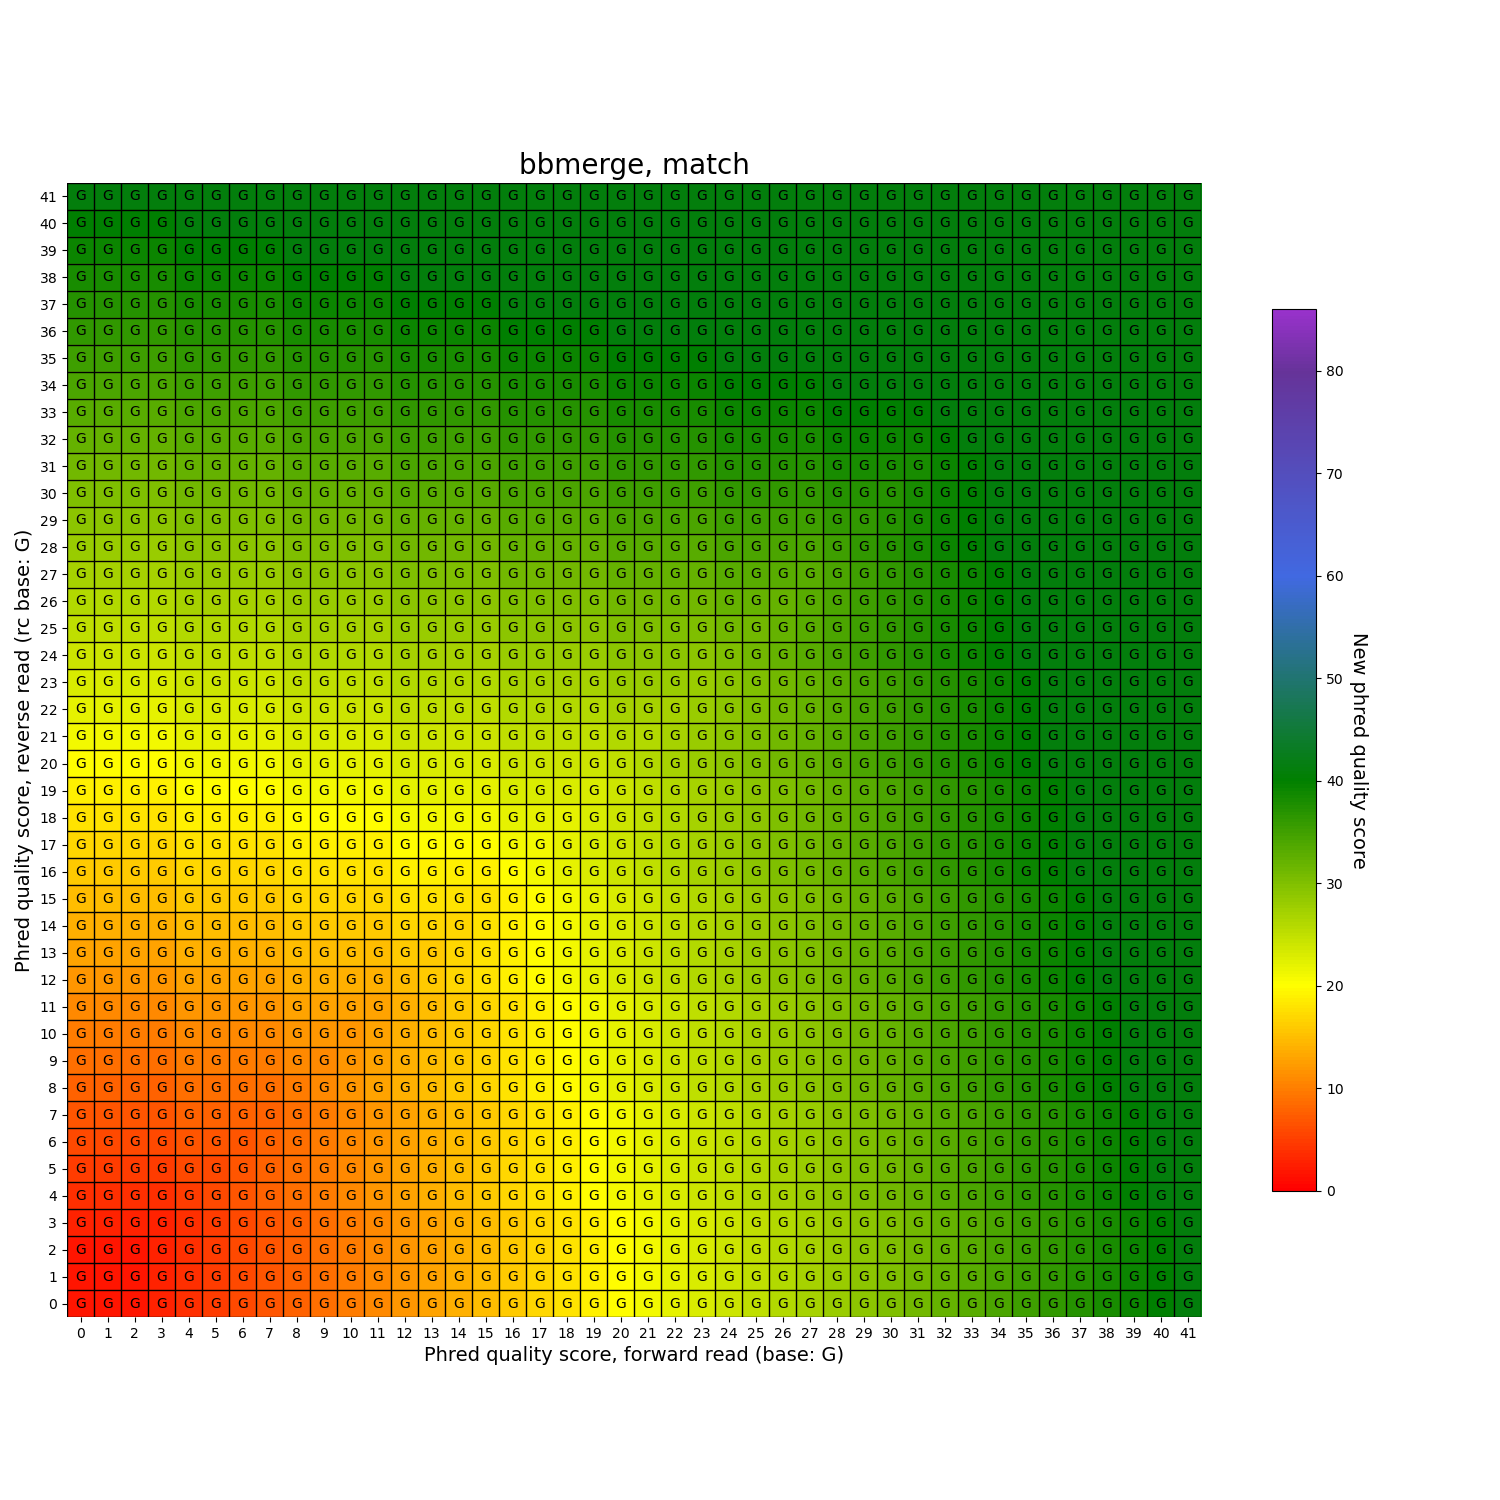
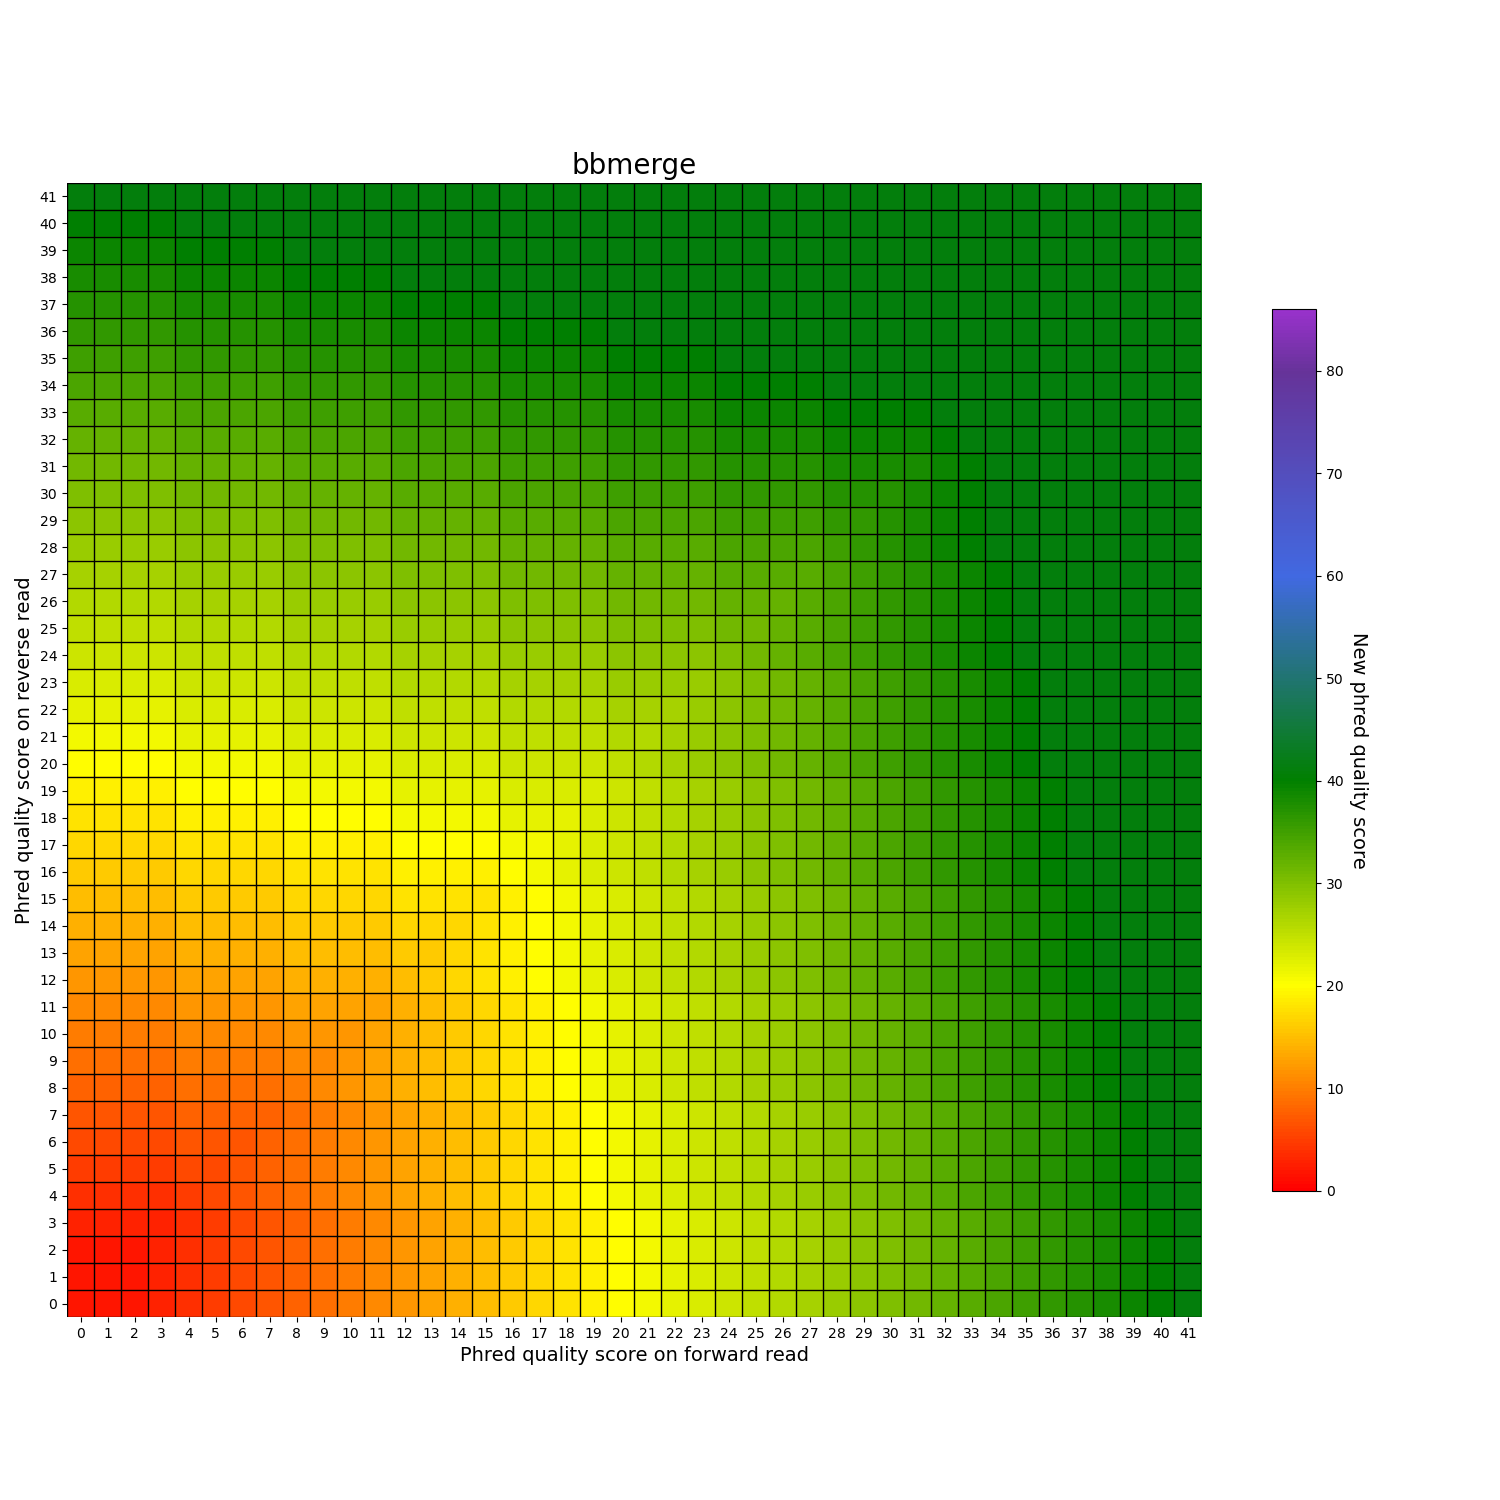
modified plots for merge phred

diff --git a/merge_phred/plot.py b/merge_phred/plot.py
@@ -156,9 +156,9 @@ def create_plots(df_type, program, match_type, max_new_qs, outdir):
 
     # Get matrices of the new phred value and the new nucleotide
     df_new_qs = df_type.pivot(index='qs2', columns='qs1', values='new_qs') \
-                        .sort_index(ascending=False)
+                       .sort_index(ascending=False)
     df_new_nt = df_type.pivot(index='qs2', columns='qs1', values='new_nt') \
-                        .sort_index(ascending=False)
+                       .sort_index(ascending=False)
 
     # Create own colormap for heatmap
     cvals  = [0, 20, 40, 60, 80, max_new_qs]
@@ -182,20 +182,26 @@ def create_plots(df_type, program, match_type, max_new_qs, outdir):
         )
 
     # Add titel and axes labels
-    nt1 = list(df_type["nt1"])[0]
-    nt2 = list(df_type["nt2"])[0]
-    ax.set_title(f"{program}, {match_type}", fontsize=20)
-    ax.set_xlabel(f"Phred quality score, forward read (base: {nt1})", fontsize=14)
-    ax.set_ylabel(f"Phred quality score, reverse read (rc base: {nt2})",
-                fontsize=14)
+    ax.set_title(f"{program}", fontsize=20)
+    if match_type == "match":
+        ax.set_xlabel(f"Phred quality score on forward read", fontsize=14)
+        ax.set_ylabel(f"Phred quality score on reverse read", fontsize=14)
+    else:
+        nt1 = list(df_type["nt1"])[0]
+        nt2 = list(df_type["nt2"])[0]
+        ax.set_xlabel(f"Phred quality score on forward read (nucleotide: {nt1})", 
+                      fontsize=14)
+        ax.set_ylabel(f"Phred quality score on reverse read (nucleotide: {nt2})", 
+                      fontsize=14)
 
     # Add the new nucletide as annotation
-    texts = annotate_heatmap(im, 
-                            df_new_nt.to_numpy(), 
-                            valfmt=None, 
-                            #textcolors=("white", "black"),
-                            threshold=max_new_qs
-                            )
+    if match_type == "mismatch":
+        annotate_heatmap(im, 
+                         df_new_nt.to_numpy(), 
+                         valfmt=None, 
+                         #textcolors=("white", "black"),
+                         threshold=max_new_qs
+                         )
 
     # Save plot
     fig.tight_layout()
